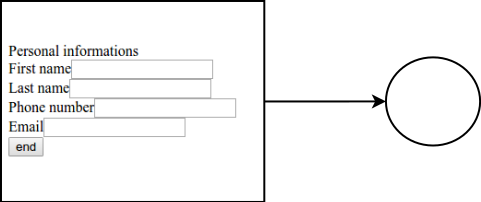
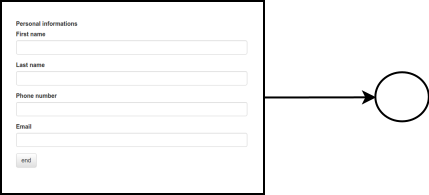
update screenshots

Changed region(s): [[0.0, 0.0, 1.0, 1.0], [0.0, 0.0923, 0.4545, 0.3077]]

diff --git a/templates/contents/blog/fr/step-bundle-subscription.md b/templates/contents/blog/fr/step-bundle-subscription.md
@@ -13,9 +13,9 @@ Pour cet exemple, nous avons choisi d'imaginer un extrait de processus d'inscrip
 
 Une fois de plus, nous allons travailler dans le fichier `DefaultController.php`
 
-Ici, nous créeons notre map et mettons en place cinq steps :
+Voici une illustration du rendu attendu.
 
-![Legende parcours subscription](/images/blog/stepBundle_subscription.png "Légende parcours subscription")
+![IDCIStepBundle Subscription URL](/images/blog/stepBundle_subscription_url.png "IDCIStepBundle Subscription URL")
 
 Si vous regardez les premières lignes de plus près dans l'exemple ci-dessous, vous trouverez l'URL de notre site : nous avons ajouté des paramètres précisant la destination finale. A la fin de notre formulaire, l'utilisateur est donc redirigé vers la page d'accueil d'IDCI Consulting.
 Aussi, grâce au paramètre "choice", nous avons mis en place un menu déroulant.
@@ -220,6 +220,10 @@ class DefaultController extends Controller
 Votre formulaire est prêt, il ne vous reste plus qu'à le tester.
 
 Ouvrez votre projet Symfony dans votre navigateur, et rendez-vous sur l'URL `localhost:8000/subscription` afin d'apprécier votre nouveau parcours d'inscription.
+
+Voici comment nous l'avons représenté avec notre légende :
+
+![Légende IDCIStepBundle Subscription](/images/blog/stepBundle_subscription.png "Légende IDCIStepBundle Subscription")
 
 ### Particularité de IDCIStepBundle ###
 
@@ -627,10 +631,16 @@ Nous avons donc crée notre `PathEventAction`. Dans un deuxième temps, il faut 
 
 ### Utiliser le service ###
 
+IDCIStepBundle se base sur l'utilisation d'un FormType Symfony pour afficher une step. Les boutons de navigation étant les input de type "submit" pour envoyer les données de la step en cours.
 
-IDCIStepBundle se base sur l'utilisation d'un FormType Symfony pour afficher une step. Les boutons de navigation étant des input de type "submit" pour envoyer les données de la step en cours.
+Le système `d'event` s'appuie donc sur les événements définis par le Framework pour les FormType.
 
-Le système `d'event` s'appuie donc sur les événements définis par le Framework pour les FormType, nous vous revoyons à la doc Symfony pour en savoir plus: [Les Form Events](https://symfony.com/doc/2.8/form/events.html).
+Nous vous renvoyons à la doc Symfony pour en savoir plus: [Les Form Events](https://symfony.com/doc/2.8/form/events.html).
+
+Voici deux schémas explicatifs :
+
+![StepBundle Form Events](/images/blog/stepBundle_FormEvent1.png "StepBundle Form Events")
+![StepBundle Form Events](/images/blog/stepBundle_FormEvent2.png "StepBundle Form Events")
 
 Pour utiliser notre nouveau service et ainsi brancher notre event, rendons nous dans notre fichier `config.yml`. Il nous suffit d'ajouter ces quelques lignes à la fin de notre path `end`:
 

diff --git a/templates/contents/blog/fr/step-bundle-contact.md b/templates/contents/blog/fr/step-bundle-contact.md
@@ -12,7 +12,7 @@ Nous pouvons voir ce cas comme l'utilisation du contact form 7 de Wordpress à l
 
 Voici une illustration du rendu attendu.
 
-![Screenshot Contact Form](/images/blog/screenshot_contact_form.png "Screenshot Contact Form")
+![Step Bundle Contact Form URL](/images/blog/stepBundle_contact_url.png "Contact Form URL")
 
 Dans la barre de recherche, nous avons notre `localhost:8000` suivi de la route que nous avons préalablement configuré : `/contact`.
 Ensuite, nous pouvoir voir le titre de notre formulaire de contact 'Personal informations', suivi des champs de saisies à compléter par l'utilisateur.
@@ -334,8 +334,8 @@ Nous vous renvoyons à la doc Symfony pour en savoir plus: [Les Form Events](htt
 
 Voici deux schémas explicatifs :
 
-![StepBundle Form Events](/images/blog/stepBundle_FormType.png "StepBundle Form Events")
-![StepBundle Form Events](/images/blog/stepBundle_FormType2.png "StepBundle Form Events")
+![StepBundle Form Events](/images/blog/stepBundle_FormEvent1.png "StepBundle Form Events")
+![StepBundle Form Events](/images/blog/stepBundle_FormEvent2.png "StepBundle Form Events")
 
 
 ```php

diff --git a/templates/contents/blog/fr/step-bundle-introduction.md b/templates/contents/blog/fr/step-bundle-introduction.md
@@ -42,7 +42,7 @@ Nous allons utiliser un diagramme qui fera office de légende.
    * Les carrés représentent les steps.
    * Les flèches représentent les paths.
 
-![Legende StepBundle](/images/blog//legend_StepBundle.png "Légende StepBundle")
+![Legende StepBundle](/images/blog//stepBundle_legend.png "Légende StepBundle")
 
 ## Pourquoi utiliser StepBundle ? ##
 
